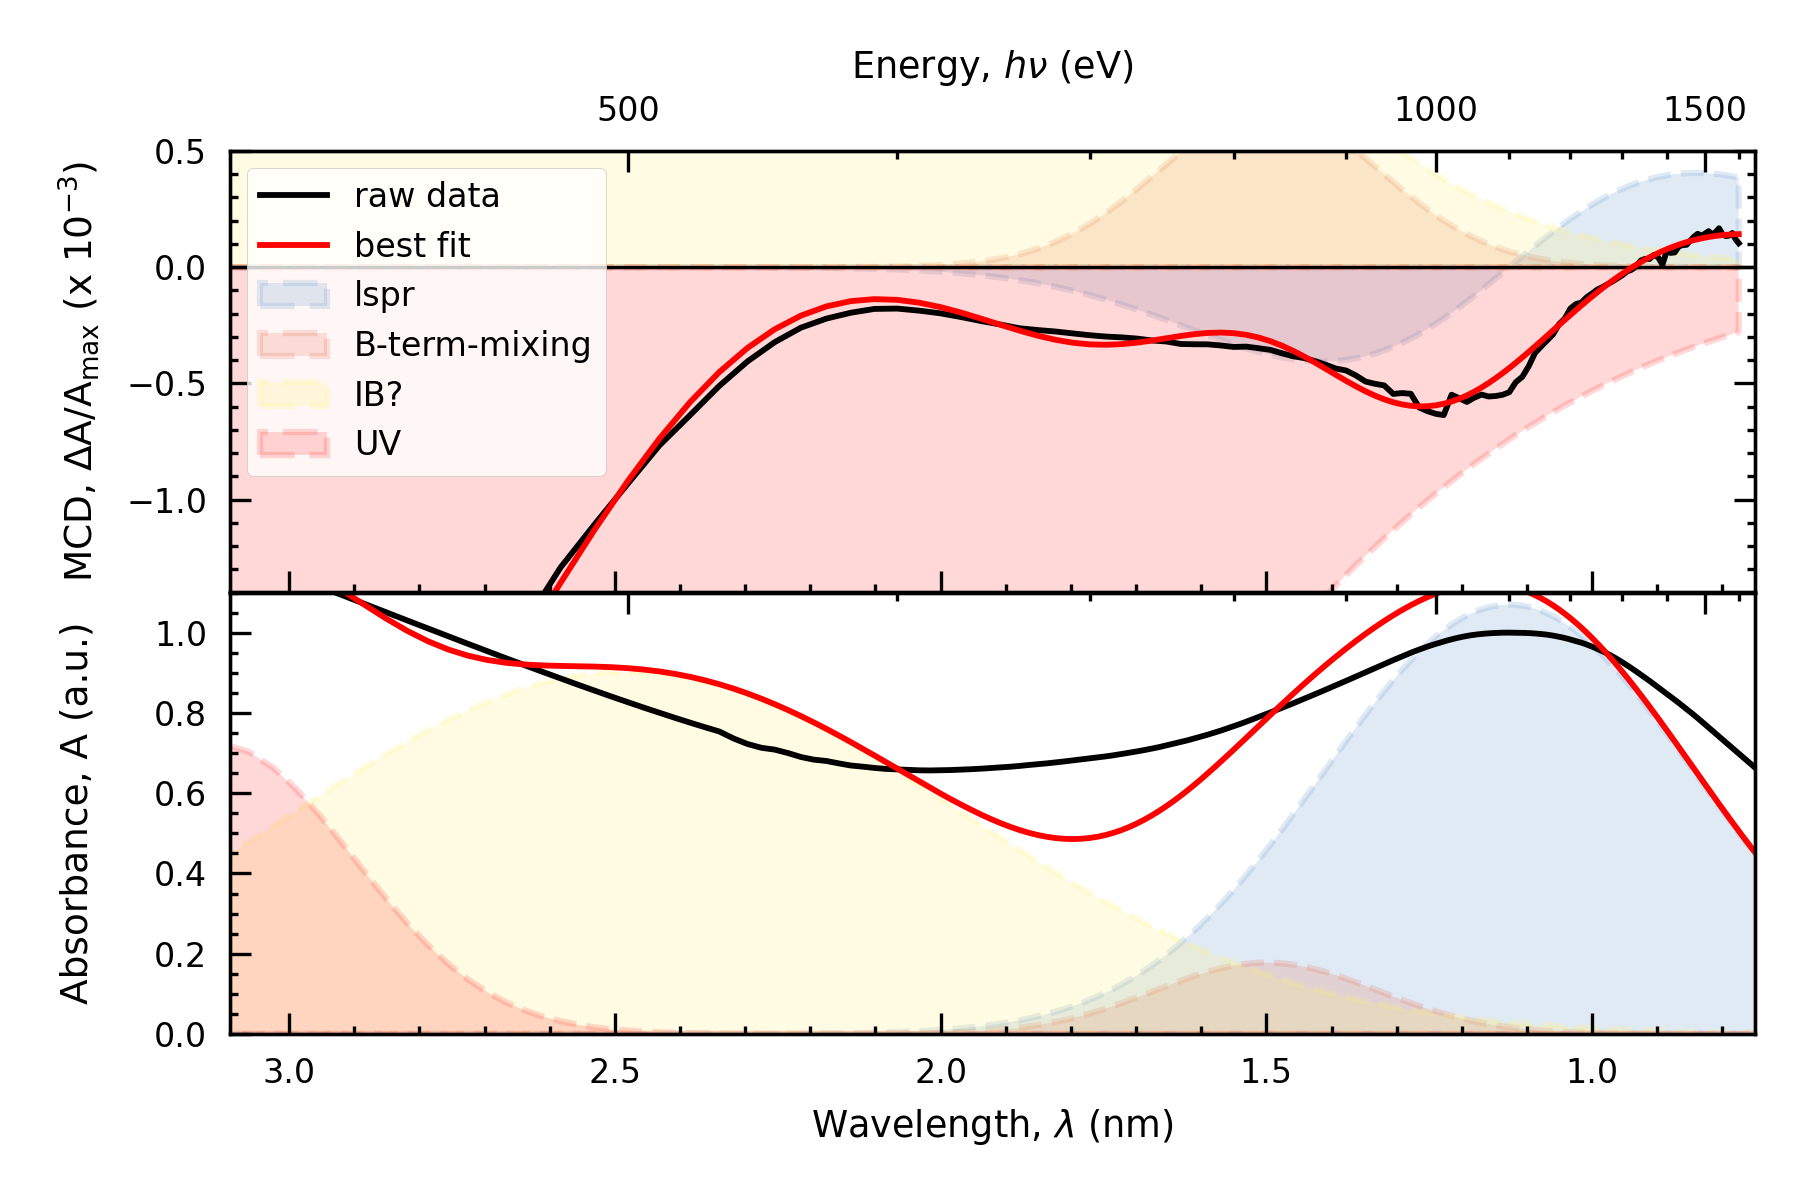
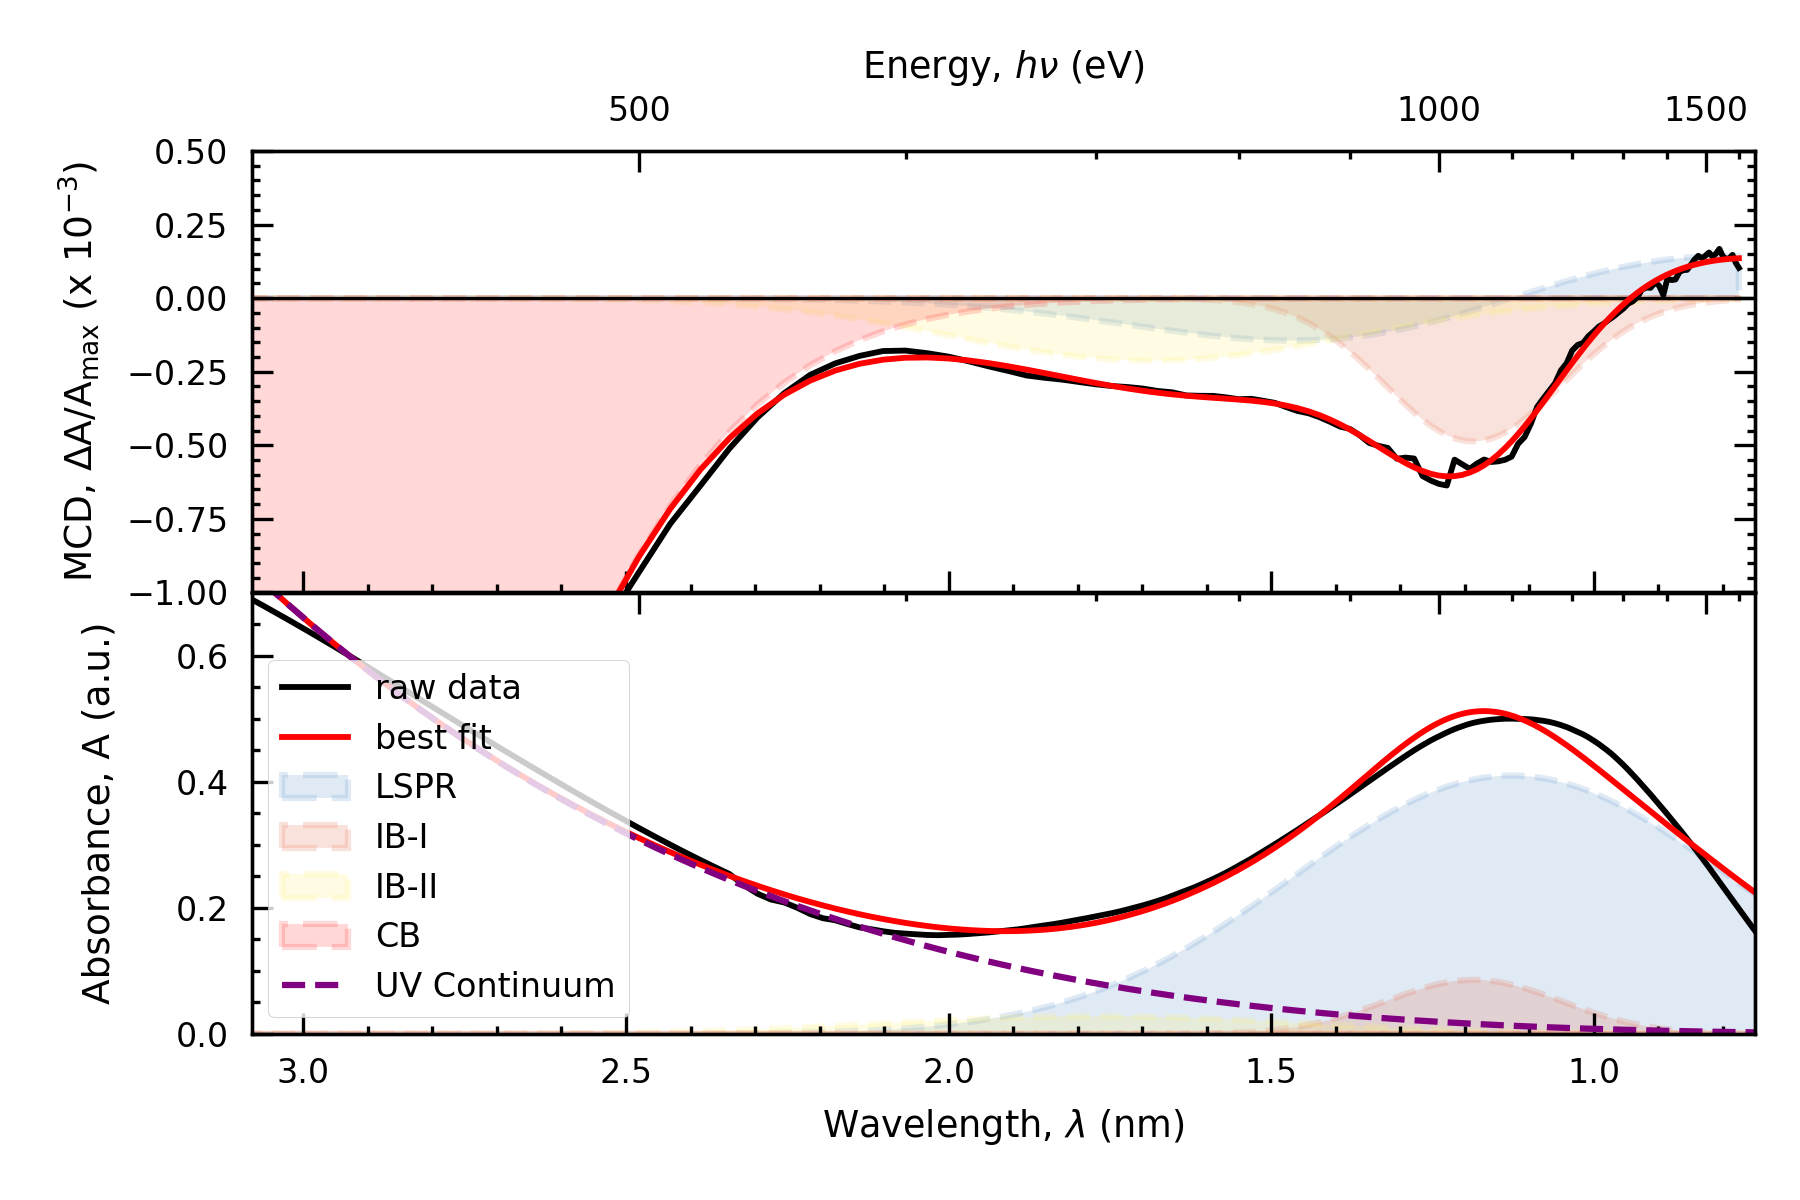
Updated term fittings for 5-1

diff --git a/mcd/fitting/term_fitting.py b/mcd/fitting/term_fitting.py
@@ -10,7 +10,7 @@ import seaborn as sns
 from scipy import optimize
 from scipy.stats import linregress
 from matplotlib.ticker import (MultipleLocator, AutoMinorLocator)
-from lmfit.models import GaussianModel, ExponentialModel
+from lmfit.models import GaussianModel, PowerLawModel
 from lmfit import Model
 import random
 from twilio.rest import Client
@@ -70,7 +70,7 @@ def plot_spectra(df,title,melt=True):
     ##plot all lines
     sns.lineplot(data=df_melt,x='energy',y='deltaA', linewidth=0.6,
                 hue='field',hue_norm=(-10,10),
-                palette=sns.color_palette('coolwarm_r',as_cmap=True),
+                palette='coolwarm_r',
                 legend=None)
 
     ax.set_xlabel('Energy (eV)')
@@ -277,9 +277,9 @@ if __name__ == '__main__':
         peak4 = [350, 1240/350] # "UV continuum" peak. may not end up using
     elif material == '5-1CFS':  
         peak1 = [1100, 1240/1100]
-        peak2 = [700, 1240/700]
-        peak3 = [500, 1240/500]
-        peak4 = [350, 1240/350]
+        peak2 = [1000, 1240/1000]
+        peak3 = [700, 1240/700]
+        peak4 = [400, 1240/400]
     elif material == '7-1CFS':
         peak1 = [1052, 1240/1052]
         peak2 = []
@@ -372,21 +372,21 @@ if __name__ == '__main__':
     #increasing peak number is an increase in ev, decrease in nm.
     ab_term_model_total = Model(ab_term_model1) + Model(ab_term_model2) + Model(ab_term_model3) + Model(ab_term_model4)
     pars = ab_term_model_total.make_params()
-    pars['ampA1'].set(value=-2, max=-1)
+    pars['ampA1'].set(value=-2, max=-0.5)
     pars['ampB1'].set(value=0, vary=False)
     pars['cen1'].set(value=peak1[1], vary=False)
-    pars['wid1'].set(10, min=fwhm(0.8), max=fwhm(0.2))
+    pars['wid1'].set(fwhm(0.4), min=fwhm(.8), max=fwhm(0.1))
     pars['ampA2'].set(value=0, vary=True)
-    pars['ampB2'].set(value=-1, vary=True)
-    pars['cen2'].set(value=1.5, vary=True, min=1.5, max=2.0)
-    pars['wid2'].set(2.75, min=fwhm(0.8), max=fwhm(0.2))
-    pars['ampA3'].set(value=-1)
-    pars['ampB3'].set(value=5, vary=True)
+    pars['ampB2'].set(value=-.001, max=0, vary=True)
+    pars['cen2'].set(value=peak2[1], vary=True, min=1, max=2.0)
+    pars['wid2'].set(value=fwhm(0.4), min=fwhm(.8), max=fwhm(0.05))
+    pars['ampA3'].set(value=0, vary=True)
+    pars['ampB3'].set(value=-.001, max=0, vary=True)
     pars['cen3'].set(value=peak3[1], vary=False)
-    pars['wid3'].set(1, min=0, max=10)
-    pars['ampA4'].set(value=2)
-    pars['ampB4'].set(value=0, vary=True, min=-8, max=4)
-    pars['cen4'].set(value=3.5, vary=True, min=2.8, max=5)
+    pars['wid3'].set(value=fwhm(0.4), min=fwhm(.8), max=fwhm(0.05), vary=True)
+    pars['ampA4'].set(value=0)
+    pars['ampB4'].set(value=-.001, vary=True, max=0)
+    pars['cen4'].set(value=peak4[1], vary=True, min=2.5, max=4)
     pars['wid4'].set(3, min=fwhm(2), max=fwhm(0.5))
 
     print(pars)
@@ -414,32 +414,34 @@ if __name__ == '__main__':
 
     mcd_comps = fitting_result.eval_components(x=x)
 
+    # abs_data = abs_data.loc[abs_data['energy'] <= 2.75] #remove extra UV data for fit
     abs_x = abs_data['energy']
-    abs_y = abs_data['normalized_absorbance']
+    # abs_y = abs_data['normalized_absorbance']
+    abs_y = abs_data['scattering_removed']
 
     gauss1 = GaussianModel(prefix='g1_')
     gauss2 = GaussianModel(prefix='g2_')
     gauss3 = GaussianModel(prefix='g3_')
     gauss4 = GaussianModel(prefix='g4_')
-    exp = ExponentialModel(prefix='exp_')
+    power = PowerLawModel(prefix='power_')
 
-    abs_model = gauss1 + gauss2 + gauss3 + gauss4
+    abs_model = gauss1 + gauss2 + gauss3 + gauss4 + power
     pars = abs_model.make_params()
 
     pars['g1_center'].set(value=param_list[0][0], vary=False)
     pars['g1_sigma'].set(value=param_list[0][1], vary=False)
-    pars['g1_amplitude'].set(value=.409, min=0, vary=True)
+    pars['g1_amplitude'].set(value=.3, min=0, vary=True)
     pars['g2_center'].set(value=param_list[1][0], vary=False)
     pars['g2_sigma'].set(value=param_list[1][1], vary=False)
-    pars['g2_amplitude'].set(value=.3668, min=0, vary=True)
+    pars['g2_amplitude'].set(value=.2, min=0, vary=True)
     pars['g3_center'].set(value=param_list[2][0], vary=False)
     pars['g3_sigma'].set(value=param_list[2][1], vary=False)
-    pars['g3_amplitude'].set(value=.2, min=0)
-    pars['g4_center'].set(value=4, min=2.5, max=6, vary=True)
-    pars['g4_sigma'].set(value=0.3, max=0.5, vary=True)
-    pars['g4_amplitude'].set(value=.5, min=0)
-    # pars['exp_amplitude'].set(value=0.01, max=0.02)
-    # pars['exp_decay'].set(value=-4, vary=False)
+    pars['g3_amplitude'].set(value=.1, min=0, vary=True)
+    pars['g4_center'].set(value=param_list[3][0], vary=False)
+    pars['g4_sigma'].set(value=param_list[3][1], vary=False)
+    pars['g4_amplitude'].set(value=.5, min=0, vary=True)
+    pars['power_amplitude'].set(value=0.0001)
+    pars['power_exponent'].set(value=4, vary=False)
     
     # init = mod.eval(pars, x=x)
     abs_fit_output = abs_model.fit(abs_y, pars, x=abs_x)
@@ -463,28 +465,28 @@ if __name__ == '__main__':
     colors = ["#ff3c38","#fff275","#e76f51","#6699cc"]
 
     ax1.plot(x, fitting_result.best_fit, 'r-', label='best fit')
-    ax1.fill_between(x, list(mcd_comps.values())[0], color=colors[-1], lw=1.5, ls='--', label='lspr', alpha=0.2)
-    ax1.fill_between(x, list(mcd_comps.values())[1], color=colors[-2], lw=1.5, ls='--', label='B-term-mixing', alpha=0.2)
-    ax1.fill_between(x, list(mcd_comps.values())[2], color=colors[-3], lw=1.5, ls='--', label='IB?', alpha=0.2)
-    ax1.fill_between(x, list(mcd_comps.values())[3], color=colors[-4], lw=1.5, ls='--', label='UV', alpha=0.2)
+    ax1.fill_between(x, list(mcd_comps.values())[0], color=colors[-1], lw=1.5, ls='--', label='LSPR', alpha=0.2)
+    ax1.fill_between(x, list(mcd_comps.values())[1], color=colors[-2], lw=1.5, ls='--', label='IB-I', alpha=0.2)
+    ax1.fill_between(x, list(mcd_comps.values())[2], color=colors[-3], lw=1.5, ls='--', label='IB-II', alpha=0.2)
+    ax1.fill_between(x, list(mcd_comps.values())[3], color=colors[-4], lw=1.5, ls='--', label='CB', alpha=0.2)
 
     ax2.plot(abs_x, abs_y, 'k-', label='raw data')
     ax2.plot(abs_x, abs_fit_output.best_fit, 'r-', label='best fit')
-    ax2.fill_between(abs_x, list(abs_comps.values())[0], color=colors[-1], lw=1.5, ls='--', label='lspr', alpha=0.2)
-    ax2.fill_between(abs_x, list(abs_comps.values())[1], color=colors[-2], lw=1.5, ls='--', label='B-term-mixing', alpha=0.2)
-    ax2.fill_between(abs_x, list(abs_comps.values())[2], color=colors[-3], lw=1.5, ls='--', label='IB?', alpha=0.2)
-    ax2.fill_between(abs_x, list(abs_comps.values())[3], color=colors[-4], lw=1.5, ls='--', label='UV', alpha=0.2)
-    # ax2.plot(abs_x, list(abs_comps.values())[4], color='purple', lw=1.5, ls='--', label='Continuum')
+    ax2.fill_between(abs_x, list(abs_comps.values())[0], color=colors[-1], lw=1.5, ls='--', label='LSPR', alpha=0.2)
+    ax2.fill_between(abs_x, list(abs_comps.values())[1], color=colors[-2], lw=1.5, ls='--', label='IB-I', alpha=0.2)
+    ax2.fill_between(abs_x, list(abs_comps.values())[2], color=colors[-3], lw=1.5, ls='--', label='IB-II', alpha=0.2)
+    ax2.fill_between(abs_x, list(abs_comps.values())[3], color=colors[-4], lw=1.5, ls='--', label='CB', alpha=0.2)
+    ax2.plot(abs_x, list(abs_comps.values())[4], color='purple', lw=1.5, ls='--', label='UV Continuum')
 
-    ax1.legend(loc=0)
+    ax2.legend(loc=0)
     ax2.set_xlabel(r'Wavelength, $\lambda$ (nm)')
     ax1.set_ylabel(r'MCD, $\Delta$A/A$_{\mathrm{max}}$ (x $10^{-3}$)',labelpad=6, size=9)
     ax2.set_ylabel(r'Absorbance, A (a.u.)',labelpad=14,size=9)
 
-    ax1.set_xlim(3.09, 0.75)
+    ax1.set_xlim(3.08, 0.75)
     ax2.set_xlim(ax1.get_xlim())
-    ax2.set_ylim(0,1.1)
-    ax1.set_ylim(-1.4,0.5)
+    ax2.set_ylim(0,0.7)
+    ax1.set_ylim(-1,0.5)
 
     ax3 = twin_axis(ax1)
     ax4 = twin_axis(ax2)
